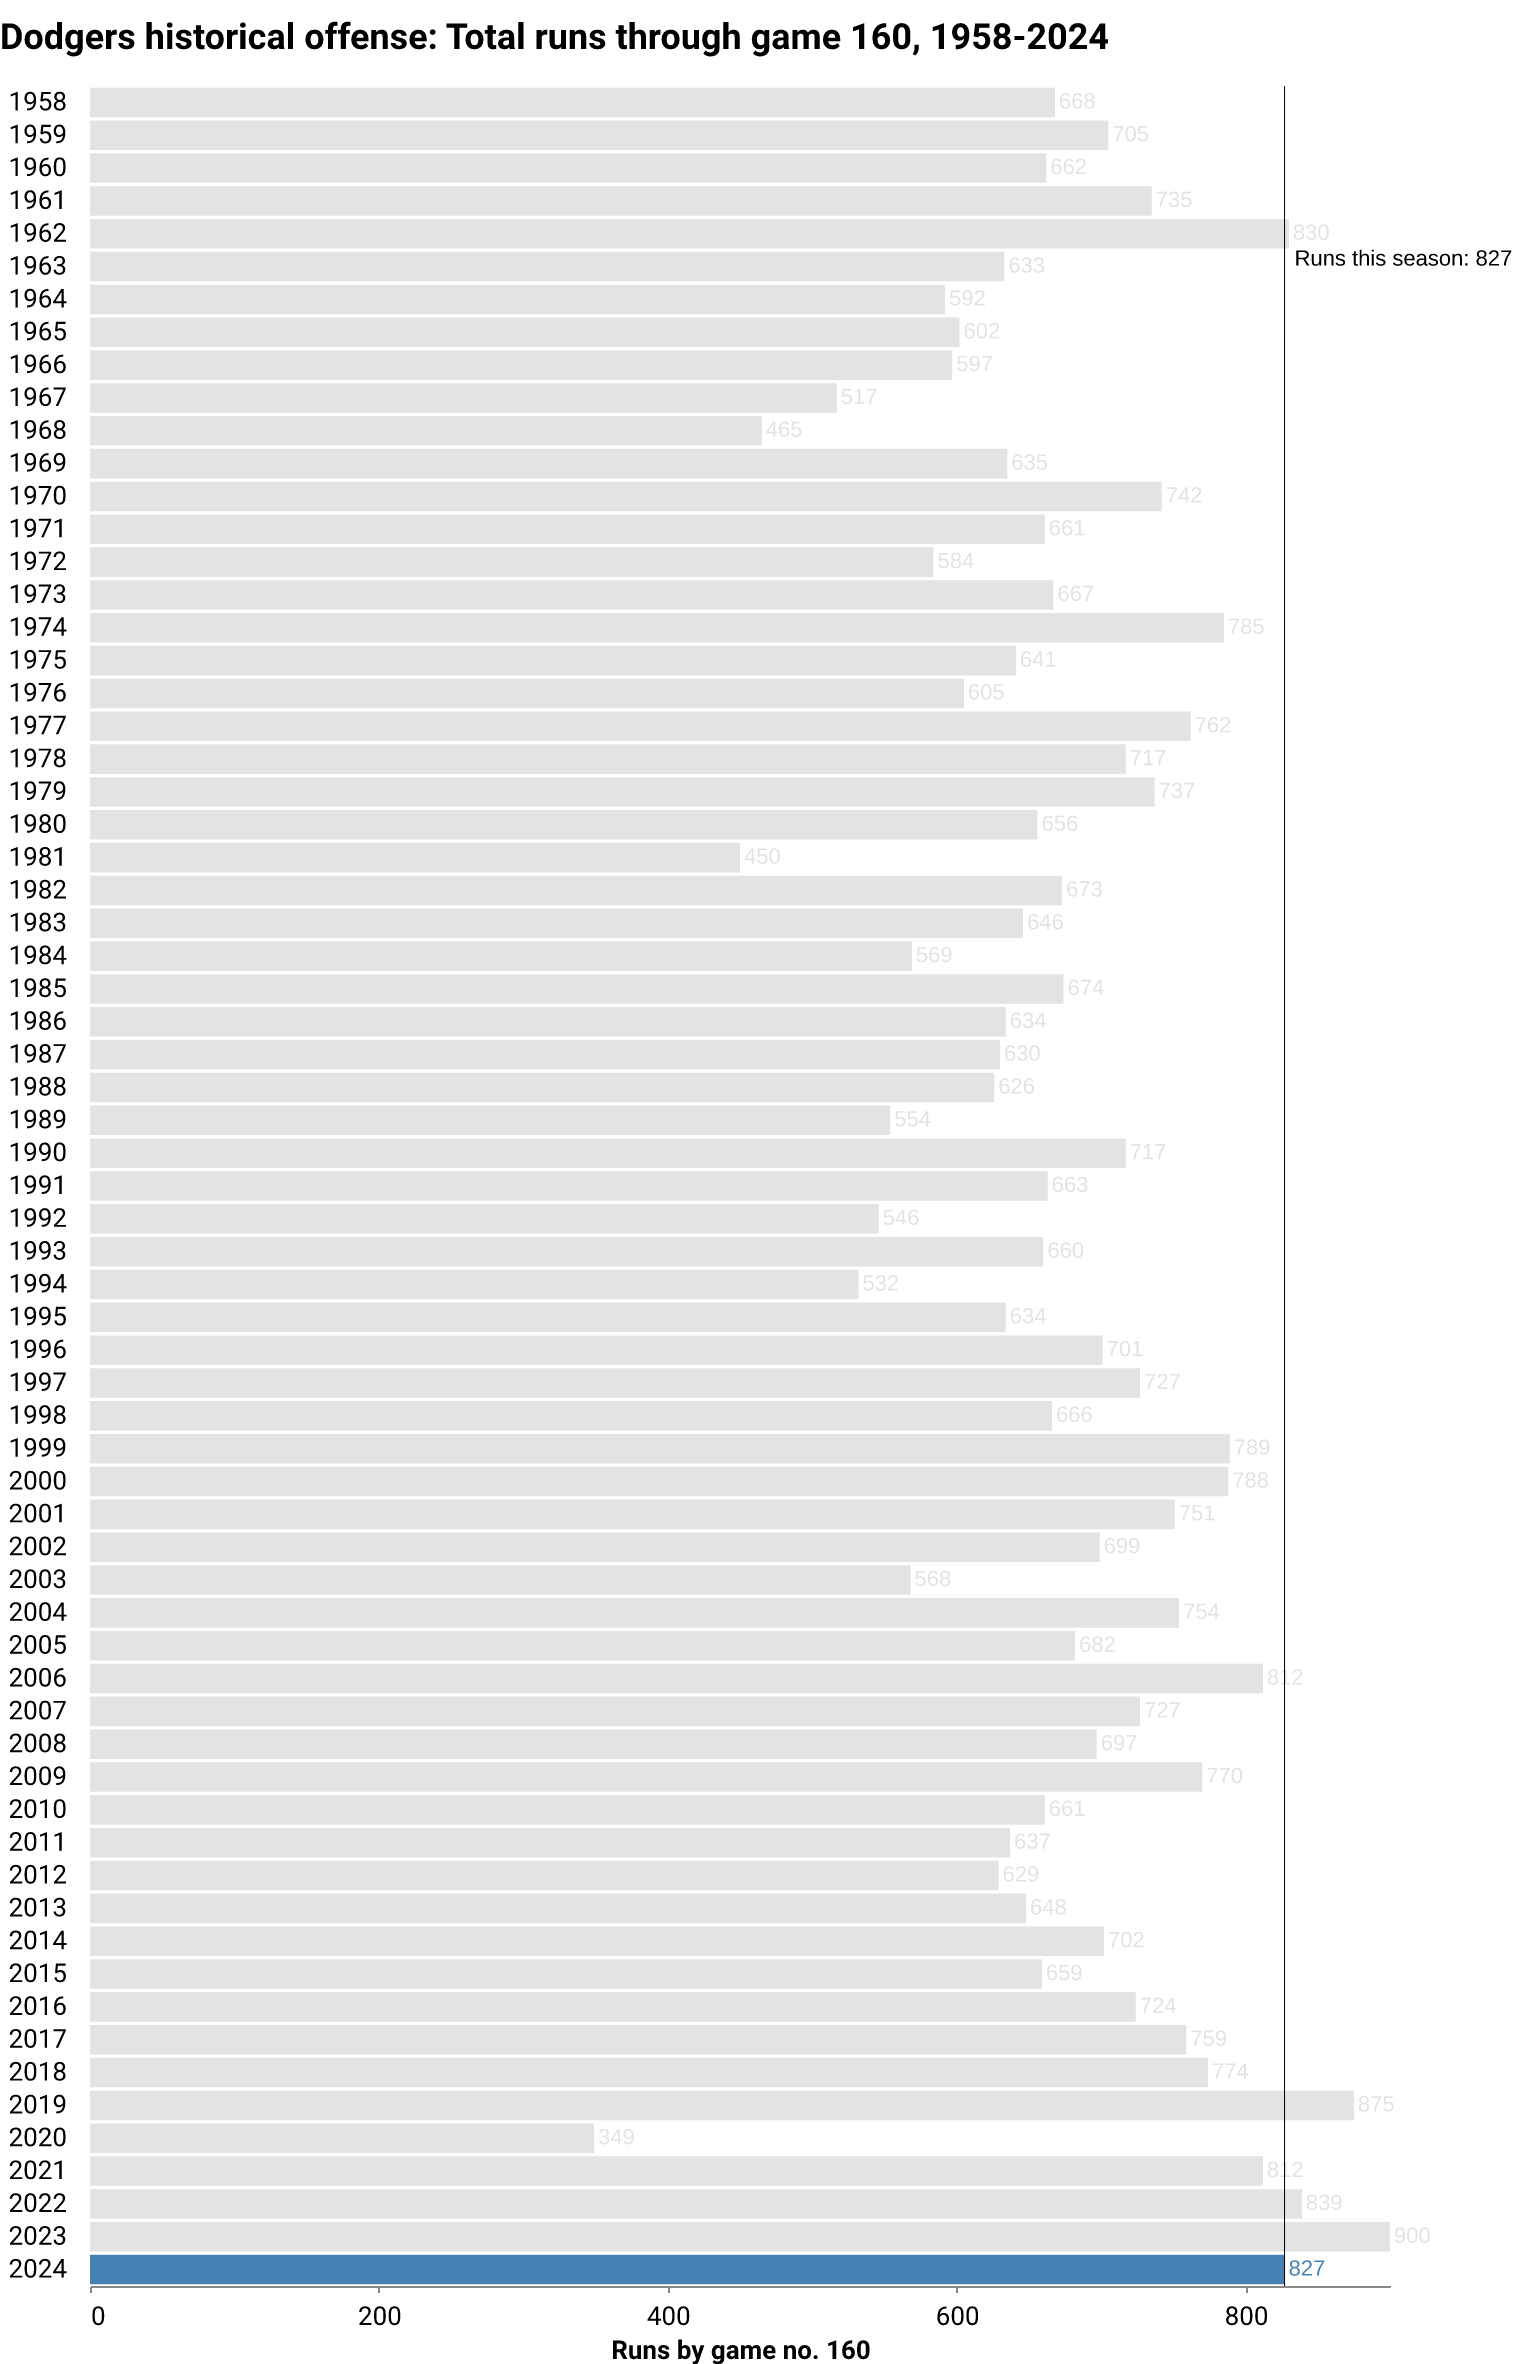
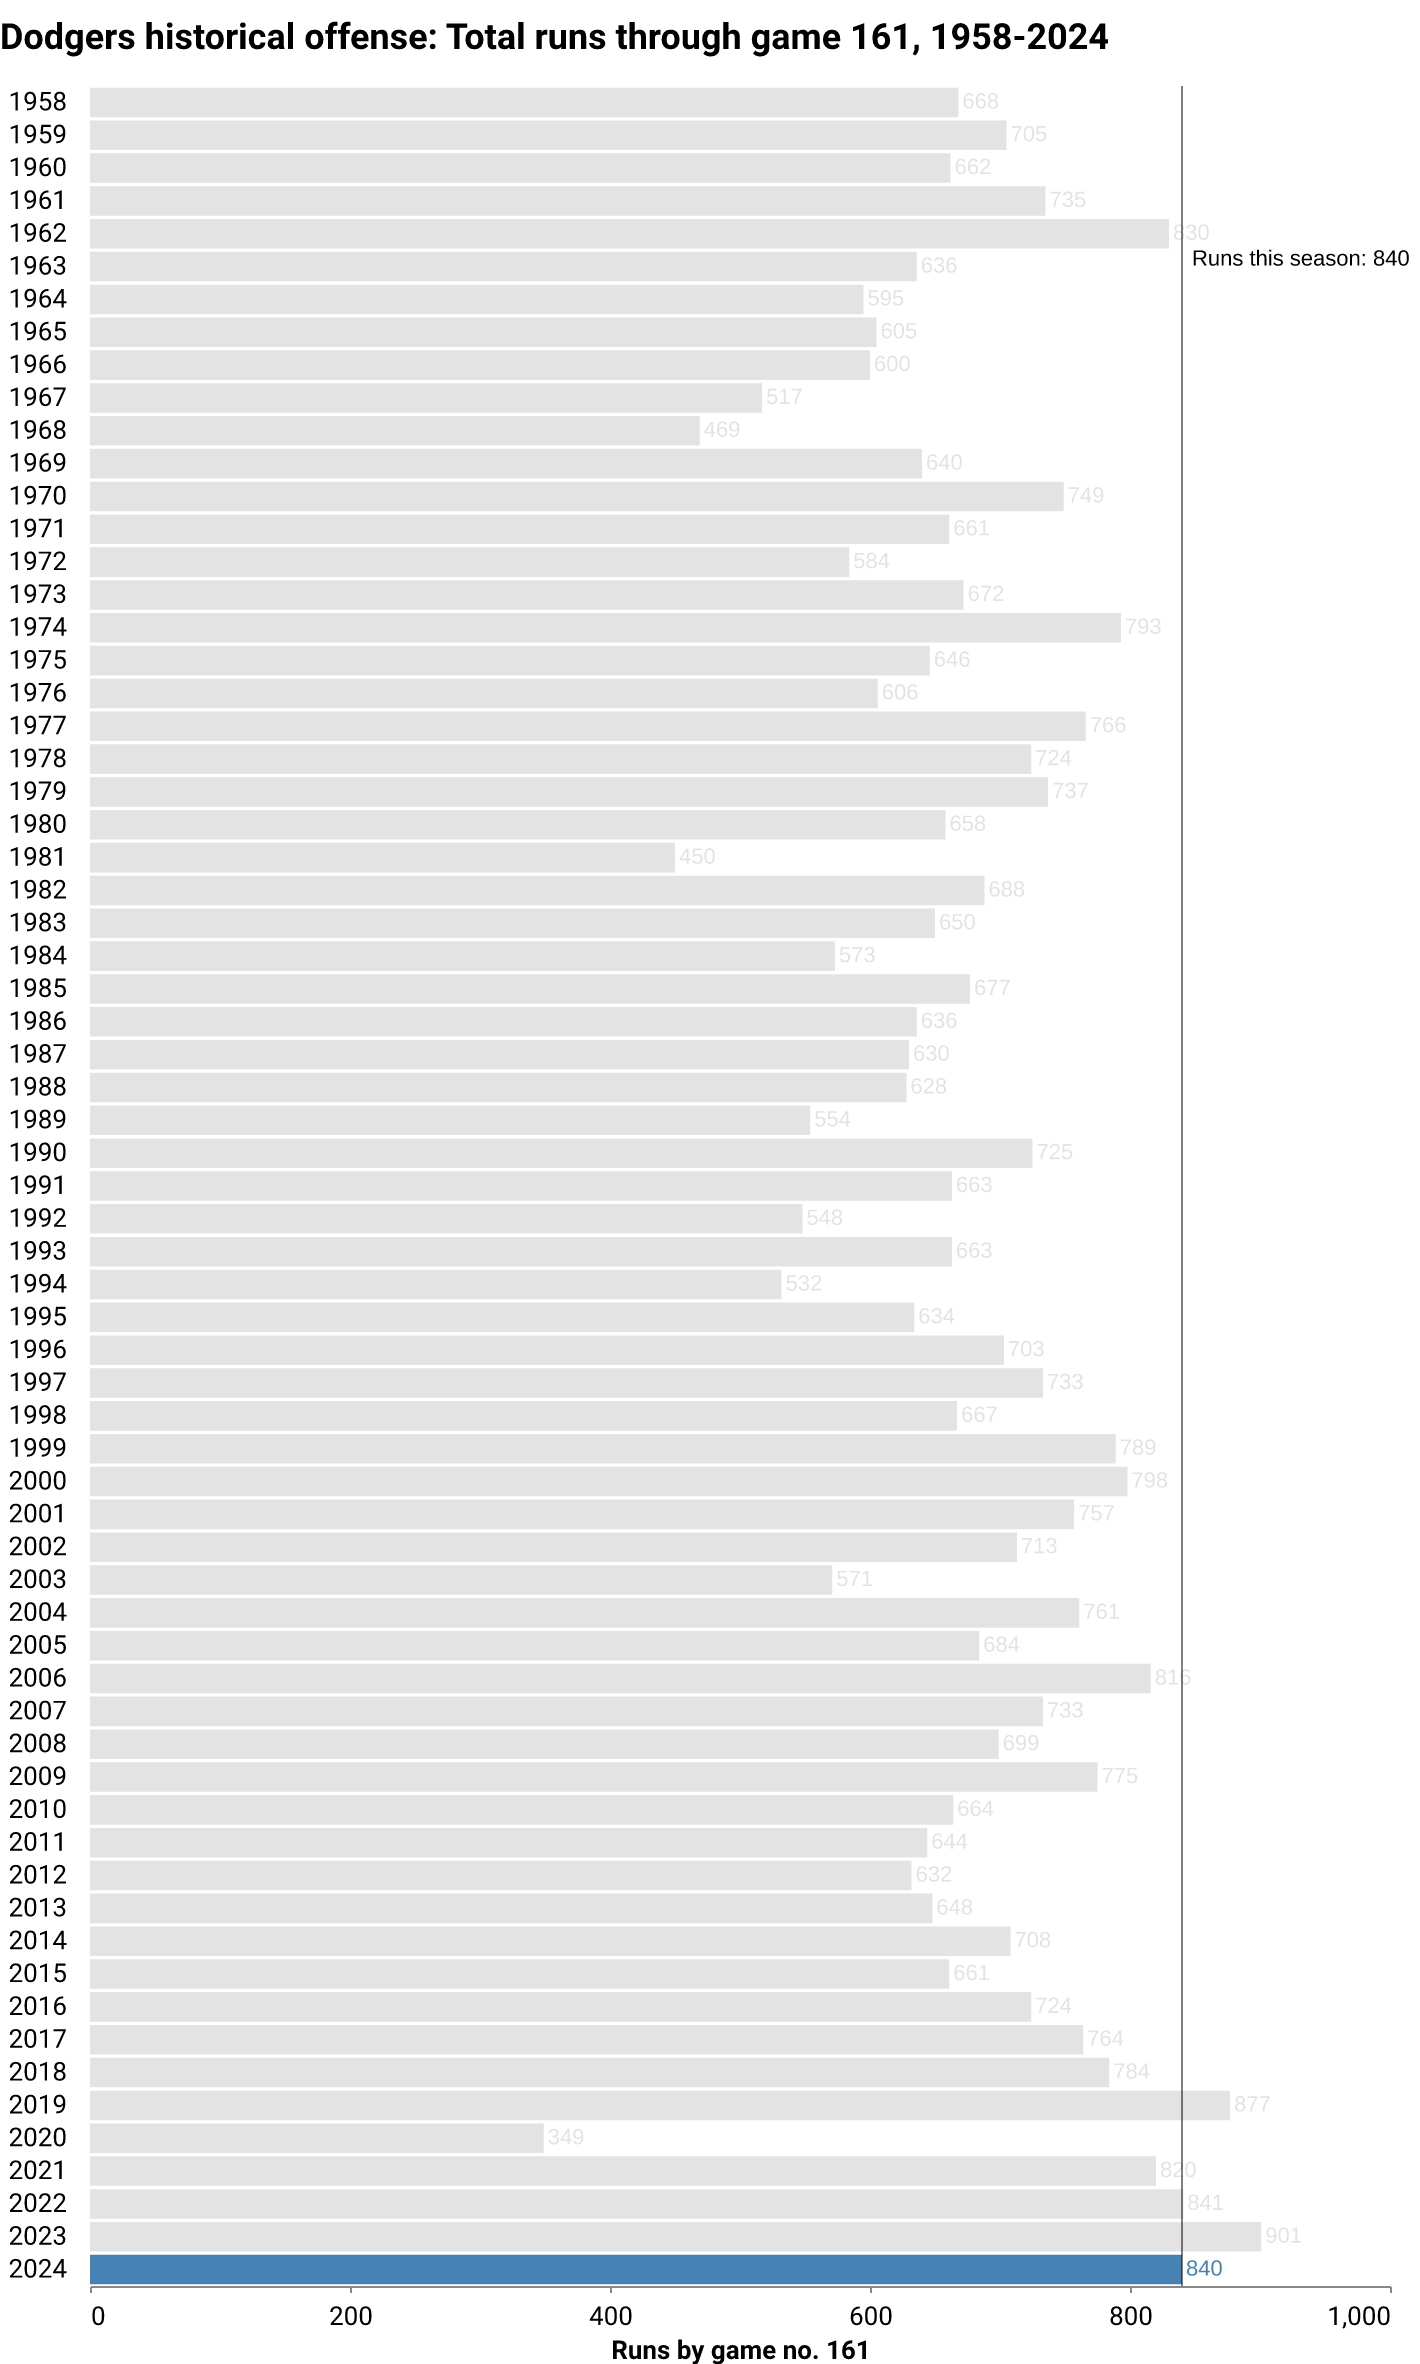
deploy: 431c4a4cc926b22a0cbdff45386c6c5030a59cf3

diff --git a/index.html b/index.html
@@ -184,7 +184,7 @@
 <p class="subhead">
     
     
-    <span class="highlight">LOS ANGELES</span> <span class="updated">(September 29)</span> — After <span class="highlight">160</span> games this season, the Dodgers are in <span class="highlight">1st</span> place in the National League West division. The team has compiled a <span class="highlight">96-64</span> record, winning <span class="highlight">60%</span> of its games so far. The last game was a <span class="highlight">11-4</span> away <span class="highlight">win</span> against the Colorado Rockies in front of <span class="highlight">48,750</span> fans. They've won <span class="highlight">7 of the last 10</span>.
+    <span class="highlight">LOS ANGELES</span> <span class="updated">(September 29)</span> — After <span class="highlight">161</span> games this season, the Dodgers are in <span class="highlight">1st</span> place in the National League West division. The team has compiled a <span class="highlight">97-64</span> record, winning <span class="highlight">60%</span> of its games so far. The last game was a <span class="highlight">13-2</span> away <span class="highlight">win</span> against the Colorado Rockies in front of <span class="highlight">48,395</span> fans. They've won <span class="highlight">8 of the last 10</span>.
 </p>
 </div>
 
@@ -206,7 +206,7 @@
             Wins
           </div>
           <div class="card-body">
-            <p class="card-text">96</p>
+            <p class="card-text">97</p>
           </div>
           <div class="card-footer text-muted">
         This point last season: 99
@@ -225,7 +225,7 @@
             <p class="card-text">64</p>
           </div>
           <div class="card-footer text-muted">
-        This point last season: 61
+        This point last season: 62
           </div>
         </div>
       </div>
@@ -238,10 +238,10 @@
             Record
           </div>
           <div class="card-body">
-            <p class="card-text">96-64</p>
+            <p class="card-text">97-64</p>
           </div>
           <div class="card-footer text-muted">
-        This point last season: 99-61
+        This point last season: 99-62
           </div>
         </div>
       </div>
@@ -257,7 +257,7 @@
             <p class="card-text">60%</p>
           </div>
           <div class="card-footer text-muted">
-        This point last season: 62%
+        This point last season: 61%
           </div>
         </div>
       </div>
@@ -302,7 +302,7 @@
             Runs
           </div>
           <div class="card-body">
-            <p class="card-text">827</p>
+            <p class="card-text">840</p>
           </div>
           <div class="card-footer text-muted">
         League rank: 2
@@ -318,10 +318,10 @@
             Runs against
           </div>
           <div class="card-body">
-            <p class="card-text">683</p>
+            <p class="card-text">685</p>
           </div>
           <div class="card-footer text-muted">
-        This point last season: 695
+        This point last season: 697
           </div>
         </div>
       </div>
@@ -334,10 +334,10 @@
             Run differential
           </div>
           <div class="card-body">
-            <p class="card-text">144</p>
+            <p class="card-text">155</p>
           </div>
           <div class="card-footer text-muted">
-        This point last season: 205
+        This point last season: 204
           </div>
         </div>
       </div>
@@ -408,7 +408,7 @@
             Batting average
           </div>
           <div class="card-body">
-            <p class="card-text">.257</p>
+            <p class="card-text">.258</p>
           </div>
           <div class="card-footer text-muted">
         Last decade average: .253
@@ -424,7 +424,7 @@
             Home runs
           </div>
           <div class="card-body">
-            <p class="card-text">230</p>
+            <p class="card-text">232</p>
           </div>
           <div class="card-footer text-muted">
         League rank: 1
@@ -456,7 +456,7 @@
             On-base percentage
           </div>
           <div class="card-body">
-            <p class="card-text">.334</p>
+            <p class="card-text">.335</p>
           </div>
           <div class="card-footer text-muted">
         Last decade average: .332
@@ -472,7 +472,7 @@
             Stolen bases
           </div>
           <div class="card-body">
-            <p class="card-text">131</p>
+            <p class="card-text">134</p>
           </div>
           <div class="card-footer text-muted">
         League rank: 6
@@ -488,7 +488,7 @@
             Stolen bases/game
           </div>
           <div class="card-body">
-            <p class="card-text">0.82</p>
+            <p class="card-text">0.83</p>
           </div>
           <div class="card-footer text-muted">
         Rate all last season: 0.65
@@ -605,7 +605,7 @@
             Strikeouts
           </div>
           <div class="card-body">
-            <p class="card-text">1368</p>
+            <p class="card-text">1378</p>
           </div>
           <div class="card-footer text-muted">
         League rank: 6
@@ -621,7 +621,7 @@
             Walks
           </div>
           <div class="card-body">
-            <p class="card-text">497</p>
+            <p class="card-text">499</p>
           </div>
           <div class="card-footer text-muted">
         League rank: 10
@@ -637,7 +637,7 @@
             ERA
           </div>
           <div class="card-body">
-            <p class="card-text">3.93</p>
+            <p class="card-text">3.92</p>
           </div>
           <div class="card-footer text-muted">
         League rank: 6
@@ -716,7 +716,7 @@
     </div>
 </div>
 
-  <p class="dated">Notes: Last updated September 29, 2024, 12:03 AM PT. More <a href="https://github.com/stiles/dodgers/blob/main/README.md">about the data</a>.</p>
+  <p class="dated">Notes: Last updated September 29, 2024, 4:03 AM PT. More <a href="https://github.com/stiles/dodgers/blob/main/README.md">about the data</a>.</p>
   
 </div>
 
